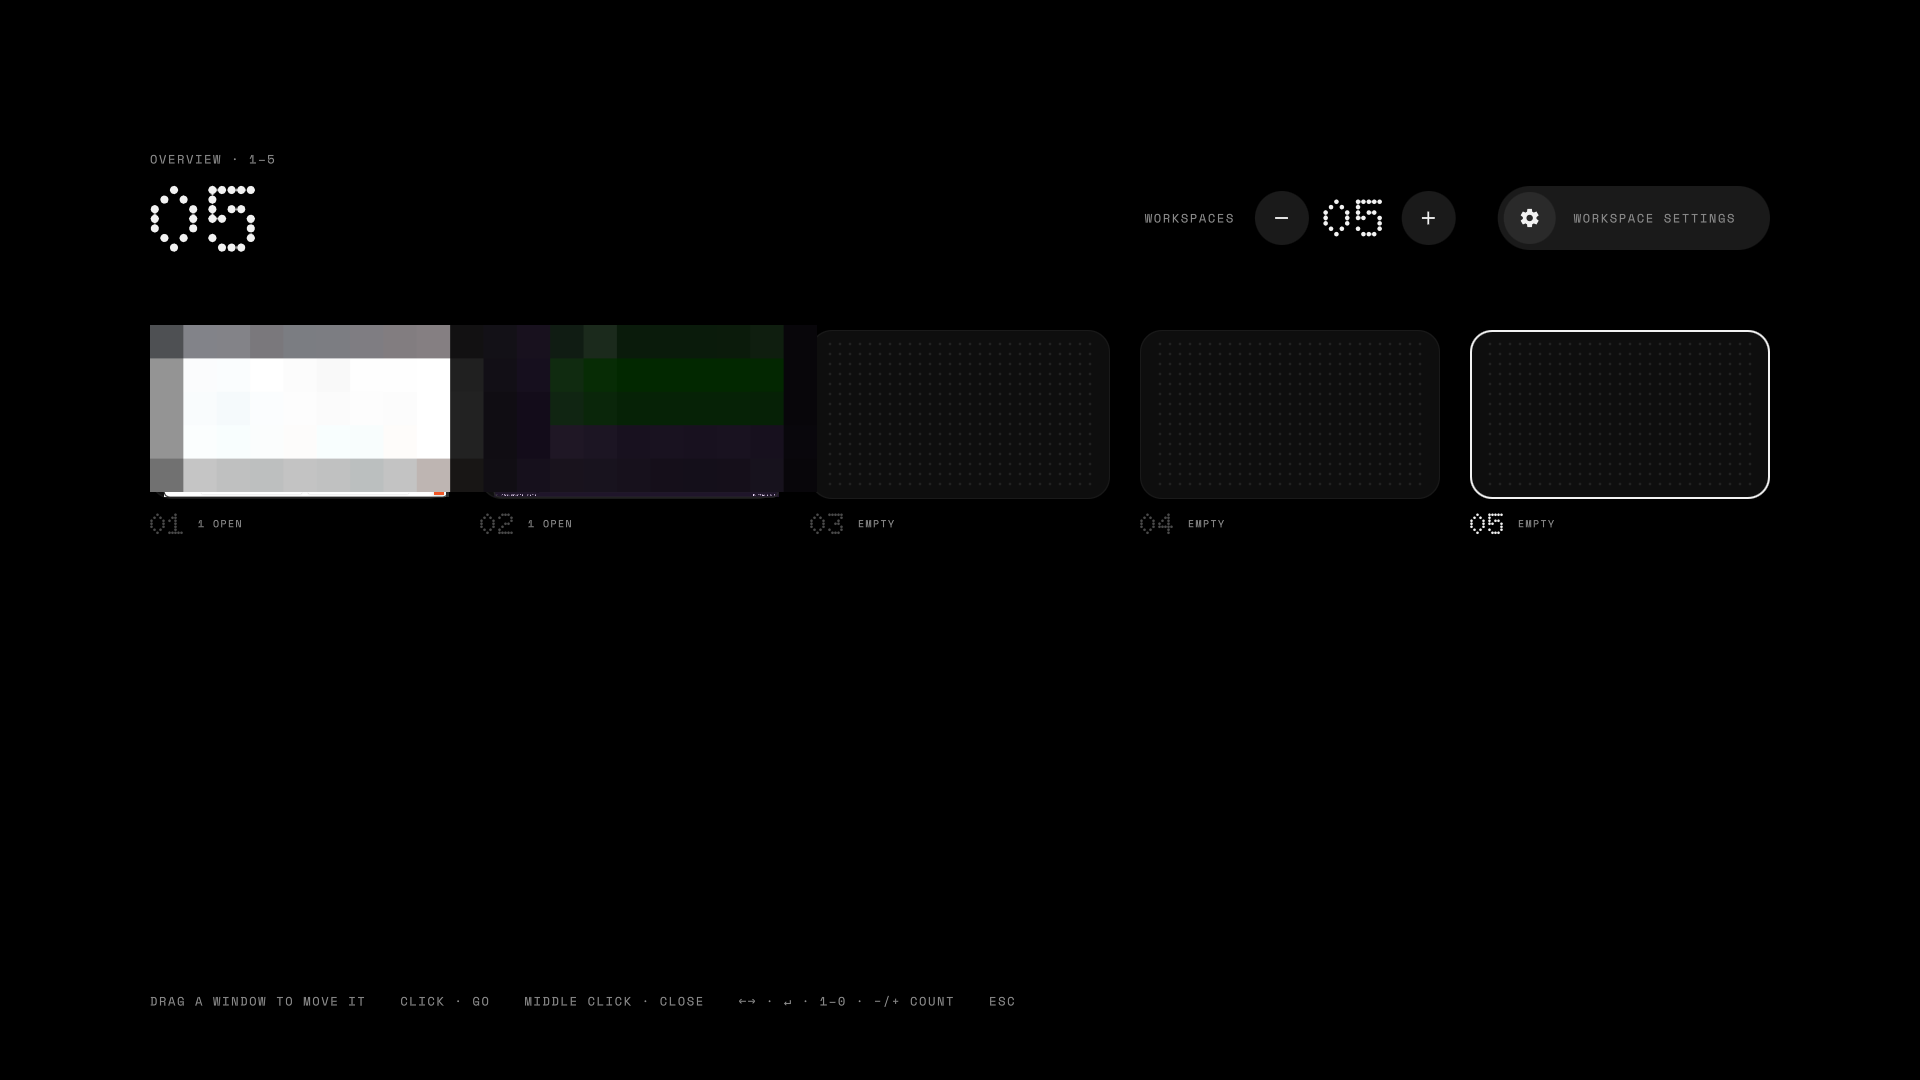
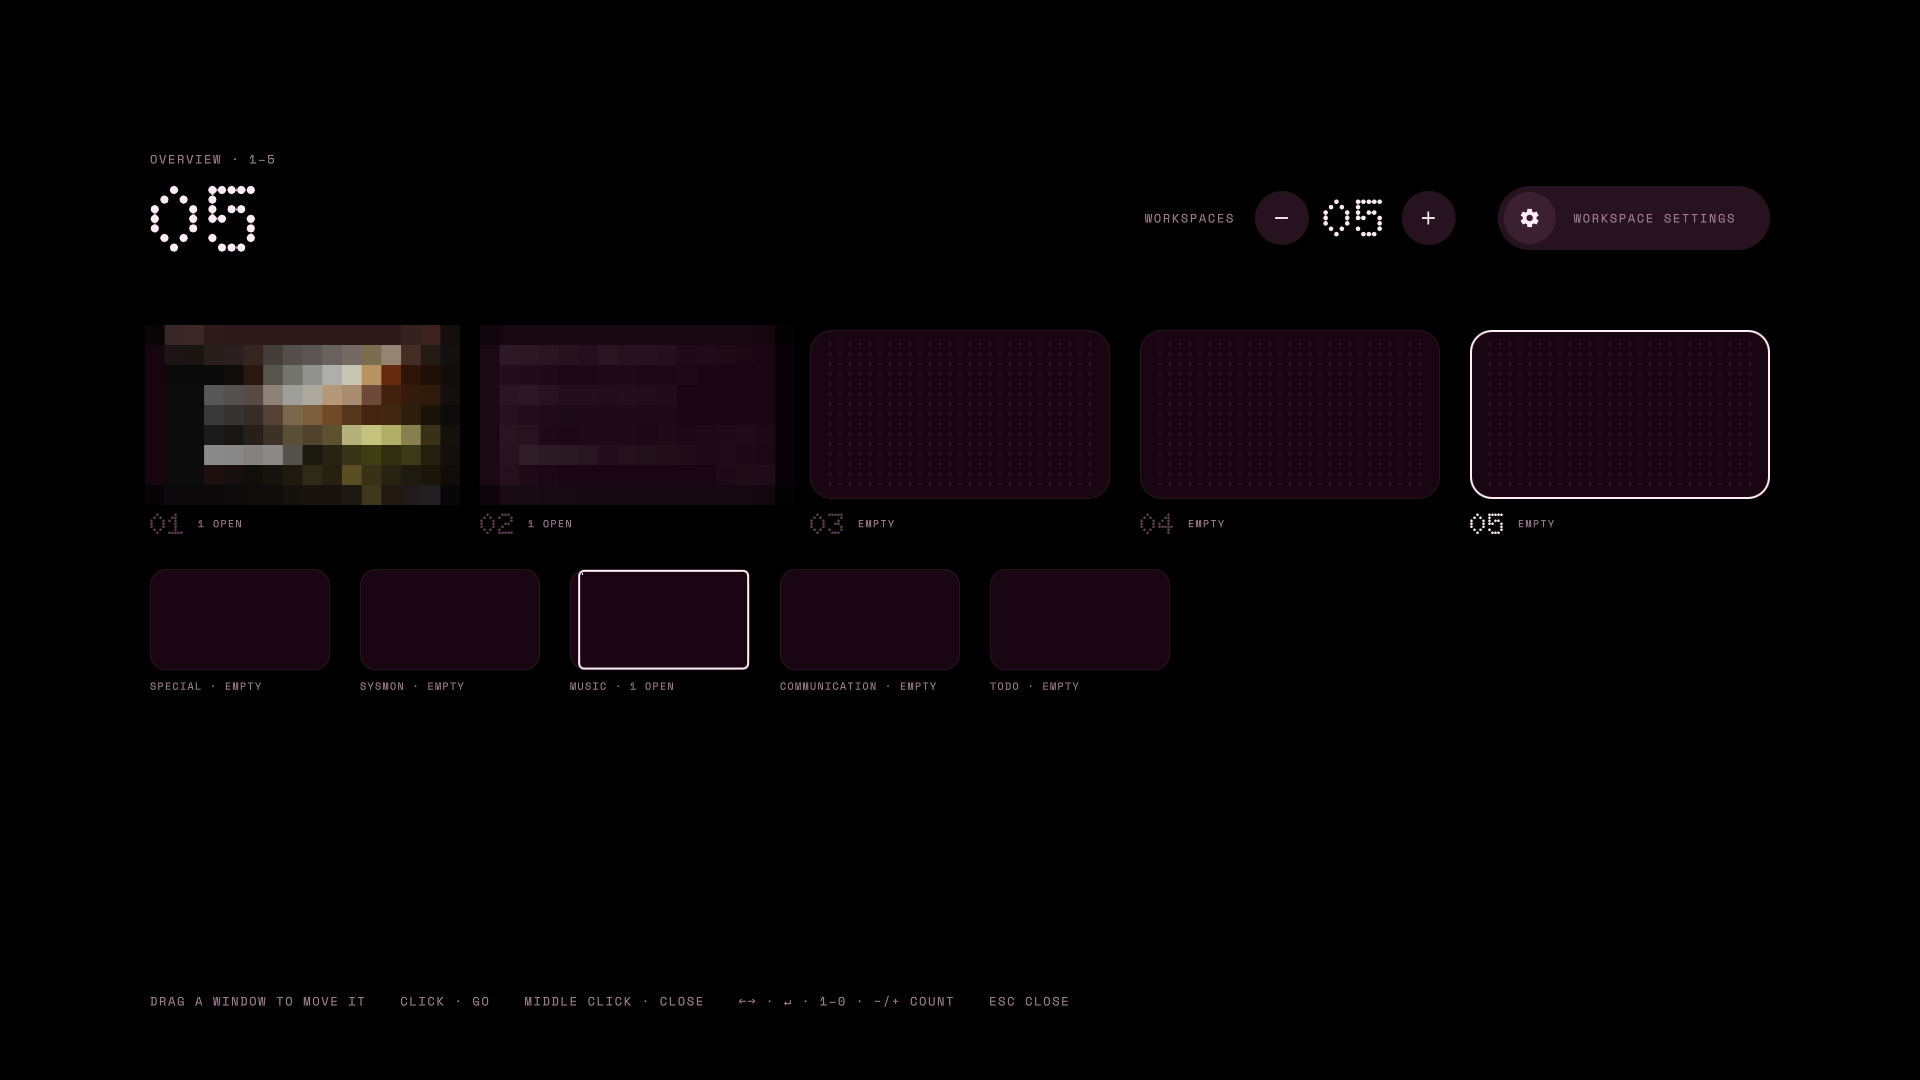
Docs: recording with sound, special workspaces, crash recovery, ported fixes
CHANGELOG and README entries, credits for malievo and the original repo's
November fixes, tested and not tested lists, two troubleshooting entries, and
new screenshots of record mode, the overview and the welcome card (wallpaper
and window thumbnails pixelated).

Changed region(s): [[0.0625, 0.5194, 0.625, 0.6417], [0.0625, 0.275, 0.4062, 0.4889], [0.25, 0.4583, 0.2812, 0.4889]]

diff --git a/README.md b/README.md
@@ -25,7 +25,7 @@ Recent changes are in the [changelog](CHANGELOG.md).
 | **Drives** | Plugged-in drives mount by themselves, with a page to open them and safely remove them. |
 | **Network editor** | Everything `nmtui` can do: Wi-Fi, Ethernet, DSL, InfiniBand, bond, bridge, team, VLAN, IP tunnel and WireGuard connections, with IP, DNS and security fields. |
 | **Password windows** | Bluetooth pairing codes, Wi-Fi passwords and admin prompts (polkit) appear as Glyph cards instead of hiding behind the settings. |
-| **Workspace overview** (`Super` `Tab`) | Live thumbnails, drag a window to another workspace, set the number of workspaces. A wrap-around limit that the binds respect. |
+| **Workspace overview** (`Super` `Tab`) | Live thumbnails, drag a window to another workspace or in and out of a special one, set the number of workspaces. A wrap-around limit that the binds respect. |
 | **Display arrangement** | Choose which side a second screen sits on, mirror it or turn it off. |
 | **File manager choice** | Thunar, Dolphin or Strata, at install or later from System → Apps. Dolphin gets what it needs outside Plasma, like thumbnails and a working "Open With". |
 | **Default apps** | One click from a list of apps of the right kind for each category, so a code editor never shows up as a browser. `Super` `E` and `Super` `W` follow your choice. |
@@ -58,6 +58,8 @@ Recent changes are in the [changelog](CHANGELOG.md).
 | Wallpaper beat, off by default | wall picker | [@Isaqdn03](https://github.com/Isaqdn03/glyph-rice) |
 | tmux and Firefox follow the palette | automatic if installed | [@Isaqdn03](https://github.com/Isaqdn03/glyph-rice) |
 | Hide the password's length, plain cover on other screens | prefs → LOOK | [@SenulMapa](https://github.com/SenulMapa/glyph-rice) |
+| TRAY tab, every Nothing and CMF earbuds model, safer typing of the clipboard, ydotool without the input group, and other fixes from November 2026 | launcher, quick settings, automatic | [@Nebelung-cloud](https://github.com/Nebelung-cloud/glyph-rice) |
+| Smooth notification list height on clear all | quick settings | [@malievo](https://github.com/malievo) |
 | A rotated first screen no longer shrinks the shell | automatic | [@SenulMapa](https://github.com/SenulMapa/glyph-rice) |
 | GPU load on Intel integrated graphics | deck, home | [@Dimashyt](https://github.com/Dimashyt/glyph-rice) |
 | The idea of a bar position setting | prefs → BAR | [@Shykid002](https://github.com/Nebelung-cloud/glyph-rice/issues/1) |
@@ -90,6 +92,10 @@ Developed on one laptop: AMD CPU, NVIDIA GPU, one 1080p screen, CachyOS, Hyprlan
 - `--fix-plasma` on the second laptop: its Wi-Fi now connects by itself after a reboot, with no password prompt.
 
 - The lock screen's power list on a real session lock, with a stand-in for `systemctl`: keys, clicks, the second press, and holding a key not counting as one.
+- Recording with sound from the screenshot tool, `Ctrl` `Alt` `R`, `Super` `Alt` `R` and `Super` `Shift` `Alt` `R`: each file has an audio track, and a region is recorded at the dragged size.
+- The screenshot tool over a full-screen app (an OpenGL app and Sober's home screen) without crashing, and the shell coming back after a forced crash.
+- `Super` `Alt` `S` moving a window into `special` and back out of `special` and `music`, and dragging windows between special and normal tiles in the overview.
+- System → Sound with seven outputs: four show and the rest scroll.
 
 **Not tested yet, so tell me if something breaks:**
 
@@ -97,6 +103,8 @@ Developed on one laptop: AMD CPU, NVIDIA GPU, one 1080p screen, CachyOS, Hyprlan
 - The **update everything** button on a real update, and the pacman notice during a real `pacman` run. The notice's script and the hook's text were tested, but not pacman running it.
 - A real `yay` update through the update button.
 - Really sleeping, rebooting or powering off from the lock screen.
+- The screenshot tool over Sober during a real game, where the crash was first seen. The cause is fixed, and if it still crashes the shell now comes back.
+- Earbuds models other than the developer's, and the TRAY tab with many tray apps.
 - Whether `--fix-plasma` read the passwords from a real KDE Wallet, or they were typed. The format comes from KDE's source code.
 - Saving a Wi-Fi password typed into the agent during a real connection. The save itself was tested on a throwaway profile.
 - The lock screen's keyboard long term on the laptop where it failed. It worked again once that laptop was updated, but the problem couldn't be reproduced, so the safeguard isn't proven to be the reason.
@@ -123,8 +131,8 @@ Developed on one laptop: AMD CPU, NVIDIA GPU, one 1080p screen, CachyOS, Hyprlan
 | **Deck** | dashboard from the bottom edge | `Super` `Space` |
 | **System** | network, bluetooth, sound, display, drives, workspaces, power, battery, input, idle, firewall, default apps, about | `Super` `I` |
 | **Prefs** | the rice's look: home, deck, bar, look, style, windows | System → customize the rice; esc comes back |
-| **Overview** | workspaces as live tiles | `Super` `Tab` |
-| **Shot** | screenshots, editor, recording | `Print` |
+| **Overview** | workspaces and special workspaces as live tiles | `Super` `Tab` |
+| **Shot** | screenshots, editor, recording with sound, region or full screen | `Print` · record or stop: `Ctrl` `Alt` `R` |
 | **Clip** | clipboard history | `Super` `V` |
 | **Charms** | emoji, kaomoji, symbols | `Super` `.` |
 | **Walls** | wallpapers as dots | `Super` `Shift` `W` |
@@ -323,6 +331,10 @@ An update keeps your settings, and it only asks for a password if a new package 
 
 **An app is missing from System → Apps.** The list only shows apps whose `.desktop` file says they are that kind of app (`Categories=`) and can open that type (`MimeType=`). Your current default always stays listed, even if it isn't that kind. An app that declares no categories at all is listed too.
 
+**The shell disappeared.** It restarts by itself within a second or two and sends a notification. If it crashes more than 3 times in a minute it stops trying and says so. Then run `rice restart`, and send the newest folder in `~/.cache/quickshell/crashes` with an issue.
+
+**Screen recordings have no sound.** Pick **system**, **mic** or **both** in the screenshot tool's record mode or in quick settings → record. Every record key uses that choice.
+
 **A panel or widget looks empty.** The VPN panel needs Clash Verge and the audio bars widget needs cava. Both are extras in the installer.
 
 ### Sleep on NVIDIA laptops
@@ -378,6 +390,7 @@ Fonts: Doto, Space Grotesk, Space Mono, JetBrains Mono Nerd Font.
 | [@Isaqdn03](https://github.com/Isaqdn03/glyph-rice) | The GIF tile, hiding parts of home, automatic game mode and its options, the output list on the volume slider, bar auto-hide, the wallpaper beat, tmux and Firefox theming, and the live level meter idea |
 | [@SenulMapa](https://github.com/SenulMapa/glyph-rice) | Hiding the password's length, the plain cover on other screens, and the fix for rotated screens |
 | [@Dimashyt](https://github.com/Dimashyt/glyph-rice) | GPU load on Intel integrated graphics |
+| [@malievo](https://github.com/malievo) | The smooth notification list height when clearing |
 
 **Ideas and bug reports that led to changes here**
 

diff --git a/CHANGELOG.md b/CHANGELOG.md
@@ -4,6 +4,33 @@ The newest changes come first. To get them, press **update everything** in Syste
 
 ## November 2026
 
+### Screenshots and recording
+
+- Fixed: the shell crashed when you took a screenshot over a full-screen game such as Sober. The game held so much graphics memory that the screenshot overlay couldn't be created, and Quickshell crashed instead of failing. The overlay is now created once at startup, so a shot needs nothing new.
+- New: if the shell ever crashes, it comes back by itself and tells you. After more than 3 crashes in a minute it stops and asks you to run `rice restart`.
+- Fixed: recordings made with `Ctrl` `Alt` `R` had no sound and ignored the recording settings. Every record key now uses the same settings as quick settings.
+- New: the screenshot tool's record mode lets you choose the area (screen or region) and the sound (off, system, mic or both). `F` and `A` switch them. Full screen starts on a click.
+- Sound defaults to system on new installs. If yours was off, pick it once in record mode.
+- `Super` `Alt` `R` records the whole screen and `Super` `Shift` `Alt` `R` a region. Both stop with the same key.
+- The screenshot timer waits the 3 or 13 seconds it shows. From the original repository.
+
+### Special workspaces
+
+- `Super` `Alt` `S` now takes a window out of any special workspace, back to the workspace you're on. On a normal workspace it still sends the window into the special one.
+- The overview shows the five special workspaces in a row under the others. Drag windows in and out of them.
+
+### From the original repository
+
+- New: a TRAY tab in the launcher, for apps sitting in the system tray.
+- New: every Nothing and CMF earbuds model, with the right noise-control options for each.
+- Fixed: Bluetooth devices reconnect when Bluetooth is turned back on, and a device is trusted only after pairing succeeds.
+- Fixed: the VPN no longer drops by itself behind a fake captive portal. It asks with a notification instead.
+- Fixed: typing the clipboard (`Ctrl` `Shift` `Alt` `V`) works with text starting with `-`, and a negative calculator result copies.
+- Security: `ydotool` gets its device through a udev rule instead of the `input` group, which let any app read every keyboard. `--update` adds the rule. If you're still in the `input` group, it says how to leave it.
+- Security: a wallpaper is decoded by its extension, so a file pretending to be an image can't reach other decoders. Login screen installs refuse linked files.
+- Quick settings: the Wi-Fi and Bluetooth lists have a height limit and scroll, and right-clicking Wi-Fi opens the network list again. The notification list shrinks smoothly when cleared, thanks to [@malievo](https://github.com/malievo).
+- System → Sound scrolls past four devices.
+
 ### Lock screen
 
 - New: sleep, reboot and power off on the lock screen, in the same list as the Lock greeter. Click them or press `F10` `F11` `F12`. Reboot and power off ask for a second press within 5 seconds, because the locked session can hold unsaved work.
